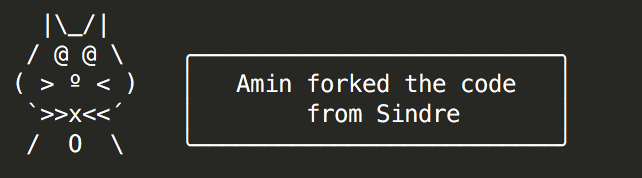
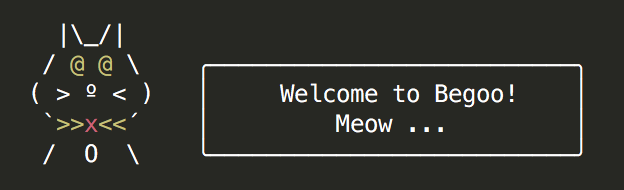
Updated Test scripts, Screenshot and Package.json

diff --git a/test/test.js b/test/test.js
@@ -4,20 +4,20 @@ var assert = require('assert');
 var fs = require('fs');
 var path = require('path');
 var chalk = require('chalk');
-var yosay = require('../');
+var begoo = require('../');
 
 function getFixturePath(testName) {
   return path.join(__dirname, 'fixture', testName + '.json');
 }
 
-console.log(yosay(chalk.red('WHAT DOES THE YO SAY??? ') + chalk.yellow('\'ALLO \'ALLO')));
+console.log(begoo(chalk.red('WHAT DOES THE YO SAY??? ') + chalk.yellow('\'ALLO \'ALLO')));
 
-describe('yosay', function () {
+describe('begoo', function () {
   // New test template.
   //
   // it('should _____', function (done) {
   //   var testName = 'short-description';
-  //   var expected = yosay('String to test');
+  //   var expected = begoo('String to test');
   //
   //   // Create fixture: run once, then remove from test:
   //   fs.writeFile(getFixturePath(testName), JSON.stringify(expected));
@@ -31,7 +31,7 @@ describe('yosay', function () {
 
   it('should return correctly formatted string', function (done) {
     var testName = 'correctly-formatted';
-    var expected = yosay('Hi');
+    var expected = begoo('Hi');
 
     fs.readFile(getFixturePath(testName), function (err, data) {
       assert.ifError(err);
@@ -42,7 +42,7 @@ describe('yosay', function () {
 
   it('should return correctly formatted string in two lines', function (done) {
     var testName = 'correctly-formatted-two-lines';
-    var expected = yosay('Welcome to Yeoman, ladies and gentlemen!');
+    var expected = begoo('Welcome to Yeoman, ladies and gentlemen!');
 
     fs.readFile(getFixturePath(testName), function (err, data) {
       assert.ifError(err);
@@ -53,7 +53,7 @@ describe('yosay', function () {
 
   it('should allow customization of line length', function (done) {
     var testName = 'length-customization';
-    var expected = yosay('Hi', {maxLength: 8});
+    var expected = begoo('Hi', {maxLength: 8});
 
     fs.readFile(getFixturePath(testName), function (err, data) {
       assert.ifError(err);
@@ -64,7 +64,7 @@ describe('yosay', function () {
 
   it('should override a maxLength setting that is too short', function (done) {
     var testName = 'override-maxLength';
-    var expected = yosay('Hello, buddy!', {maxLength: 4});
+    var expected = begoo('Hello, buddy!', {maxLength: 4});
 
     fs.readFile(getFixturePath(testName), function (err, data) {
       assert.ifError(err);
@@ -76,7 +76,7 @@ describe('yosay', function () {
   describe('ansi', function () {
     it('should display ansi styling correctly', function (done) {
       var testName = 'ansi';
-      var expected = yosay(chalk.red.bgWhite('Hi'));
+      var expected = begoo(chalk.red.bgWhite('Hi'));
 
       fs.readFile(getFixturePath(testName), function (err, data) {
         assert.ifError(err);
@@ -87,7 +87,7 @@ describe('yosay', function () {
 
     it('should handle part ansi and part not-ansi', function (done) {
       var testName = 'half-ansi';
-      var expected = yosay(chalk.red.bgWhite('Hi') + ' there, sir!');
+      var expected = begoo(chalk.red.bgWhite('Hi') + ' there, sir!');
 
       fs.readFile(getFixturePath(testName), function (err, data) {
         assert.ifError(err);
@@ -98,7 +98,7 @@ describe('yosay', function () {
 
     it('should wrap ansi styling to the next line properly', function (done) {
       var testName = 'wrap-ansi-styles';
-      var expected = yosay(chalk.red.bgWhite('Hi') + ' there, sir! ' + chalk.bgBlue.white('you are looking') + ' swell today!');
+      var expected = begoo(chalk.red.bgWhite('Hi') + ' there, sir! ' + chalk.bgBlue.white('you are looking') + ' swell today!');
 
       fs.readFile(getFixturePath(testName), function (err, data) {
         assert.ifError(err);
@@ -109,7 +109,7 @@ describe('yosay', function () {
 
     it('should handle new line properly', function (done) {
       var testName = 'handle-new-line';
-      var expected = yosay('first line\nsecond line\n\nfourth line');
+      var expected = begoo('first line\nsecond line\n\nfourth line');
 
       fs.readFile(getFixturePath(testName), function (err, data) {
         assert.ifError(err);
@@ -120,7 +120,7 @@ describe('yosay', function () {
 
     it('should handle fullwidth characters', function (done) {
       var testName = 'handle-fullwidth';
-      var expected = yosay('项目可以更新了');
+      var expected = begoo('项目可以更新了');
 
       fs.readFile(getFixturePath(testName), function (err, data) {
         assert.ifError(err);
@@ -131,7 +131,7 @@ describe('yosay', function () {
 
     it('should display long words correctly', function (done) {
       var testName = 'long-words';
-      var expected = yosay('iloveunicornsiloveunicornsiloveunicornsiloveunicornsiloveunicornsiloveunicorns');
+      var expected = begoo('iloveunicornsiloveunicornsiloveunicornsiloveunicornsiloveunicornsiloveunicorns');
 
       fs.readFile(getFixturePath(testName), function (err, data) {
         assert.ifError(err);
@@ -142,7 +142,7 @@ describe('yosay', function () {
 
     it('should overflow when lines exceed the default greeting', function (done) {
       var testName = 'overflow';
-      var expected = yosay('Lie on your belly and purr when you are asleep shove bum in owner’s face like camera lens. Cough furball.', {maxLength: 11});
+      var expected = begoo('Lie on your belly and purr when you are asleep shove bum in owner’s face like camera lens. Cough furball.', {maxLength: 11});
 
       fs.readFile(getFixturePath(testName), function (err, data) {
         assert.ifError(err);

diff --git a/test/manual-test.js b/test/manual-test.js
@@ -1,6 +1,6 @@
 'use strict';
 var chalk = require('chalk');
-var yosay = require('../');
+var begoo = require('../');
 
 /*
  * Yo. Fire this file locally with `node test/manual-test.js` at least after you
@@ -9,47 +9,47 @@ var yosay = require('../');
  * Thanks (ᵔᴥᵔ)
  */
 
-console.log(yosay('Hello, and welcome to my fantastic generator full of whimsy and bubble gum!'));
+console.log(begoo('Hello, and welcome to my fantastic generator full of whimsy and bubble gum!'));
 
-console.log(yosay('Hi'));
+console.log(begoo('Hi'));
 
-console.log(yosay('Welcome to Yeoman, ladies and gentlemen!'));
+console.log(begoo('Welcome to Yeoman, ladies and gentlemen!'));
 
-console.log(yosay('Hi', {maxLength: 8}));
+console.log(begoo('Hi', {maxLength: 8}));
 
-console.log(yosay('Hello, buddy!', {maxLength: 4}));
+console.log(begoo('Hello, buddy!', {maxLength: 4}));
 
-console.log(yosay(chalk.red.bgWhite('Hi')));
+console.log(begoo(chalk.red.bgWhite('Hi')));
 
-console.log(yosay(chalk.red.bgWhite('Hi') + ' there, sir!'));
+console.log(begoo(chalk.red.bgWhite('Hi') + ' there, sir!'));
 
-console.log(yosay(chalk.red.bgWhite('Hi') + ' there, sir! ' + chalk.bgBlue.white('you are looking') + ' swell today!'));
+console.log(begoo(chalk.red.bgWhite('Hi') + ' there, sir! ' + chalk.bgBlue.white('you are looking') + ' swell today!'));
 
-console.log(yosay('first line\nsecond line\n\nfourth line'));
+console.log(begoo('first line\nsecond line\n\nfourth line'));
 
-console.log(yosay('项目可以更新了'));
+console.log(begoo('项目可以更新了'));
 
-console.log(yosay('iloveunicornsiloveunicornsiloveunicornsiloveunicornsiloveunicornsiloveunicorns'));
+console.log(begoo('iloveunicornsiloveunicornsiloveunicornsiloveunicornsiloveunicornsiloveunicorns'));
 
-console.log(yosay('Lie on your belly and purr when you are asleep shove bum in owner’s face like camera lens. Cough furball.', {maxLength: 11}));
-console.log(yosay('Lie on your belly and purr when you are asleep shove bum in owner’s face like camera lens. Cough furball. Cough furball. Cough furball. Cough furball. Cough furball. Cough furball. Cough furball. Cough furball. Cough furball. Cough furball. Cough furball. Cough furball. Cough furball.'));
-console.log(yosay('Lie on your belly and purr when you are asleep shove bum in owner’s face like camera lens. Cough furball. Cough furball. Cough furball. Cough furball. Cough furball. Cough furball. Cough furball. Cough furball. Cough furball. Cough furball. Cough furball. Cough furball. Cough furball.', {maxLength: 11}));
-console.log(yosay('Lie on your belly and purr when you are asleep shove bum in owner’s face like camera lens. Cough furball. Cough furball. Cough furball. Cough furball. Cough furball. Cough furball. Cough furball. Cough furball. Cough furball. Cough furball. Cough furball. Cough furball. Cough furball.', {maxLength: 26}));
+console.log(begoo('Lie on your belly and purr when you are asleep shove bum in owner’s face like camera lens. Cough furball.', {maxLength: 11}));
+console.log(begoo('Lie on your belly and purr when you are asleep shove bum in owner’s face like camera lens. Cough furball. Cough furball. Cough furball. Cough furball. Cough furball. Cough furball. Cough furball. Cough furball. Cough furball. Cough furball. Cough furball. Cough furball. Cough furball.'));
+console.log(begoo('Lie on your belly and purr when you are asleep shove bum in owner’s face like camera lens. Cough furball. Cough furball. Cough furball. Cough furball. Cough furball. Cough furball. Cough furball. Cough furball. Cough furball. Cough furball. Cough furball. Cough furball. Cough furball.', {maxLength: 11}));
+console.log(begoo('Lie on your belly and purr when you are asleep shove bum in owner’s face like camera lens. Cough furball. Cough furball. Cough furball. Cough furball. Cough furball. Cough furball. Cough furball. Cough furball. Cough furball. Cough furball. Cough furball. Cough furball. Cough furball.', {maxLength: 26}));
 
-console.log(yosay(
+console.log(begoo(
   'That’s it. Feel free to fire up the server with ' +
   chalk.green('`npm run start:dev`') +
   'or use our subgenerator to create endpoints.'
 ));
 
-console.log(yosay('That’s it. Feel free to fire up the server with `npm run start:dev` or use our subgenerator to create endpoints.'));
+console.log(begoo('That’s it. Feel free to fire up the server with `npm run start:dev` or use our subgenerator to create endpoints.'));
 
-console.log(yosay(
+console.log(begoo(
   'That’s it. Feel free to fire up the server with ' +
   chalk.green('`npm run start:dev`') + '.'
 ));
 
-console.log(yosay(
+console.log(begoo(
   'That’s it. Feel free to fire up the server with ' +
   '`npm run start:dev`.'
 ));
